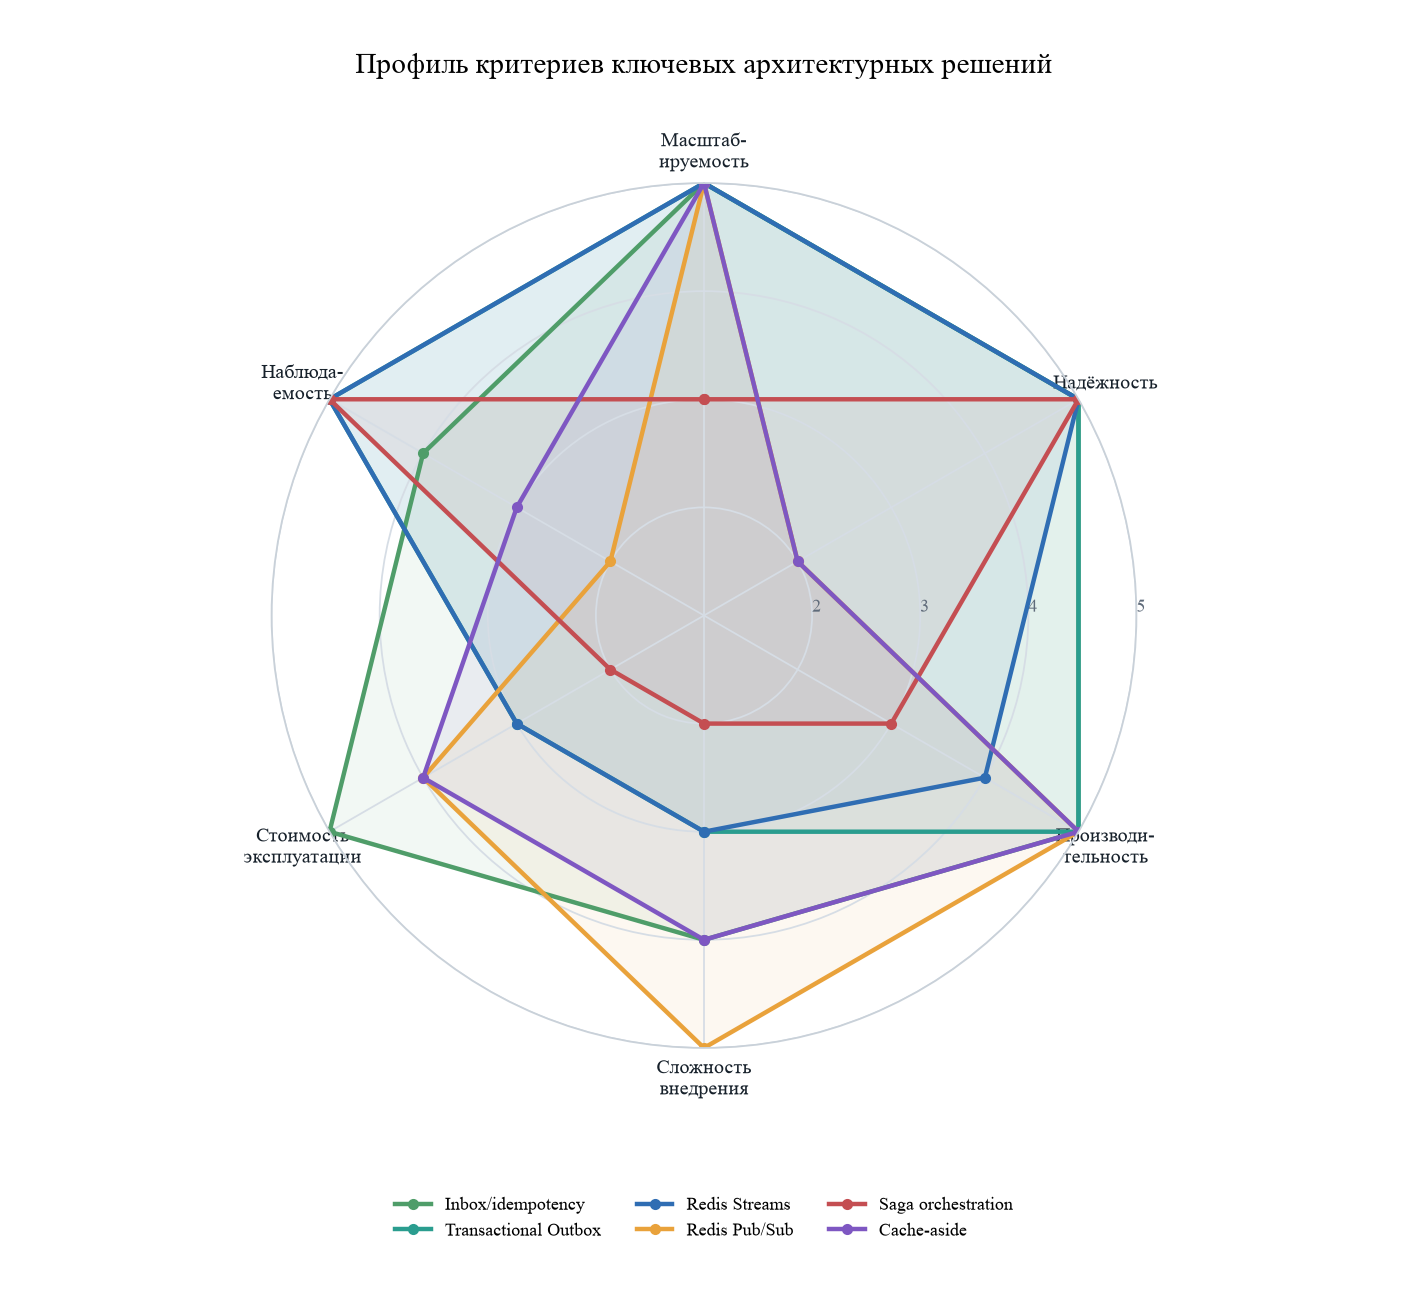
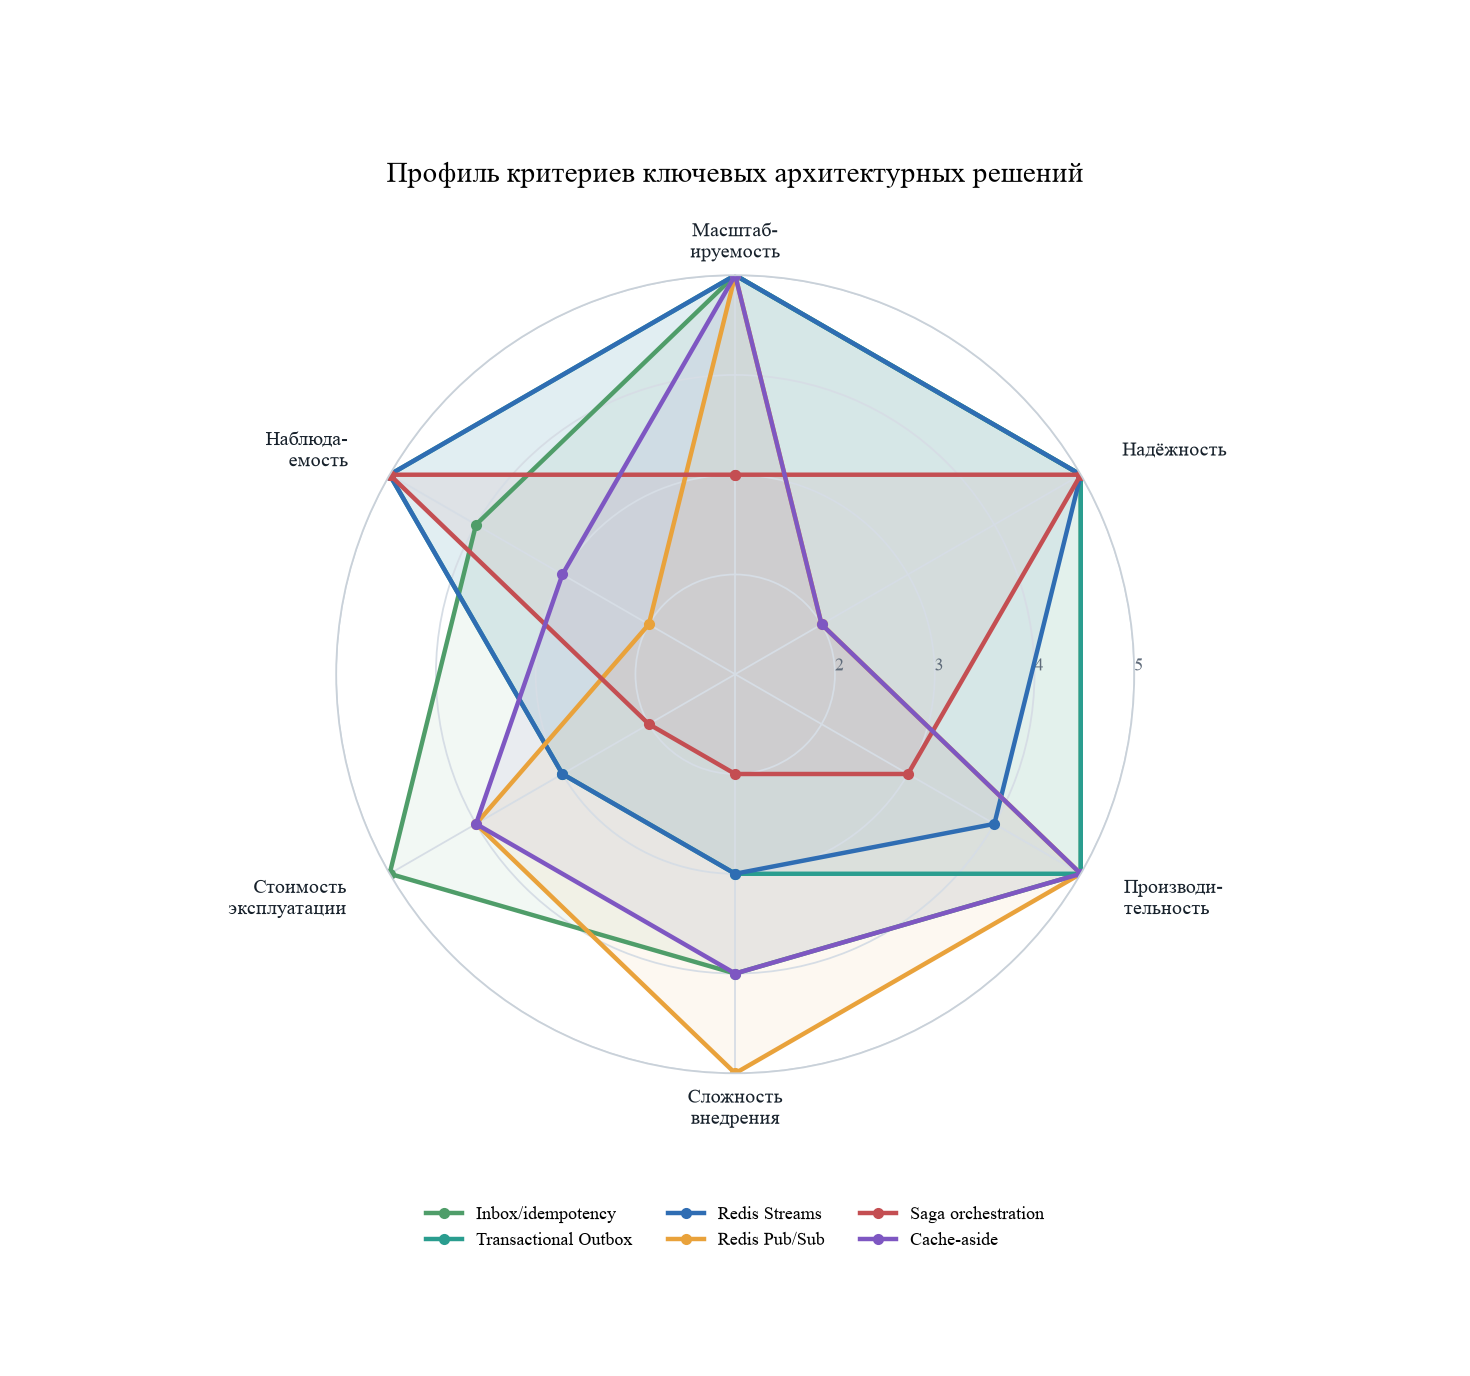
Move radar labels outside plot circle

diff --git a/scripts/run_experiments.py b/scripts/run_experiments.py
@@ -855,7 +855,7 @@ def plot_artifacts(out_dir, aggregates, matrix, faults, final_metrics):
     angles = np.linspace(0, 2 * np.pi, len(criteria), endpoint=False).tolist()
     angles += angles[:1]
 
-    fig, ax = plt.subplots(figsize=(8.8, 8.2), subplot_kw={"projection": "polar"})
+    fig, ax = plt.subplots(figsize=(9.2, 8.6), subplot_kw={"projection": "polar"})
     ax.set_theta_offset(np.pi / 2)
     ax.set_theta_direction(-1)
     ax.set_ylim(1, 5)
@@ -863,10 +863,37 @@ def plot_artifacts(out_dir, aggregates, matrix, faults, final_metrics):
     ax.set_yticklabels(["1", "2", "3", "4", "5"], color=palette["muted"], fontsize=8)
     ax.set_rlabel_position(90)
     ax.set_xticks(angles[:-1])
-    ax.set_xticklabels([label for _, label in criteria], fontsize=9, color=palette["text"])
+    ax.set_xticklabels([])
+    ax.tick_params(axis="x", length=0, pad=0)
     ax.grid(color=palette["grid"], linewidth=0.8)
     ax.spines["polar"].set_color(palette["border"])
-    ax.set_title("Профиль критериев ключевых архитектурных решений", pad=26, fontsize=13)
+    ax.set_title("Профиль критериев ключевых архитектурных решений", pad=42, fontsize=13)
+
+    label_layout = [
+        {"ha": "center", "va": "bottom", "radius": 5.12},
+        {"ha": "left", "va": "center", "radius": 5.48},
+        {"ha": "left", "va": "center", "radius": 5.50},
+        {"ha": "center", "va": "top", "radius": 5.14},
+        {"ha": "right", "va": "center", "radius": 5.50},
+        {"ha": "right", "va": "center", "radius": 5.48},
+    ]
+    for angle, (_, label), layout in zip(angles[:-1], criteria, label_layout):
+        ax.text(
+            angle,
+            layout["radius"],
+            label,
+            ha=layout["ha"],
+            va=layout["va"],
+            fontsize=9,
+            color=palette["text"],
+            clip_on=False,
+            bbox={
+                "boxstyle": "round,pad=0.12",
+                "facecolor": "white",
+                "edgecolor": "none",
+                "alpha": 0.92,
+            },
+        )
 
     for solution, label, color in selected:
         row = by_solution[solution]
@@ -882,7 +909,7 @@ def plot_artifacts(out_dir, aggregates, matrix, faults, final_metrics):
         frameon=False,
         fontsize=8,
     )
-    fig.subplots_adjust(top=0.86, bottom=0.20, left=0.08, right=0.92)
+    fig.subplots_adjust(top=0.80, bottom=0.22, left=0.16, right=0.84)
     fig.savefig(os.path.join(out_dir, "criteria_radar.png"), dpi=160)
     plt.close(fig)
 